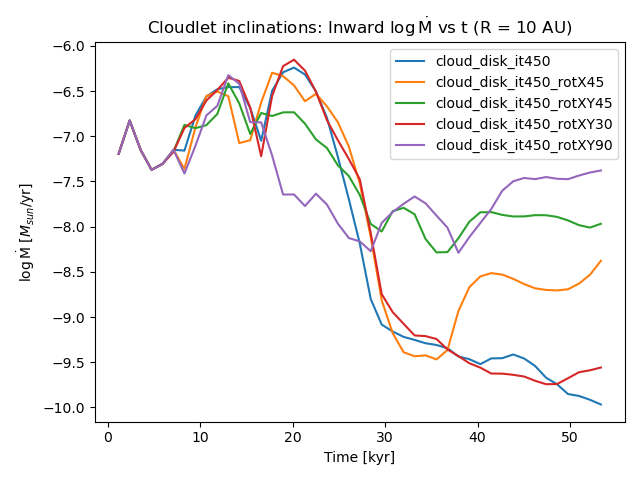
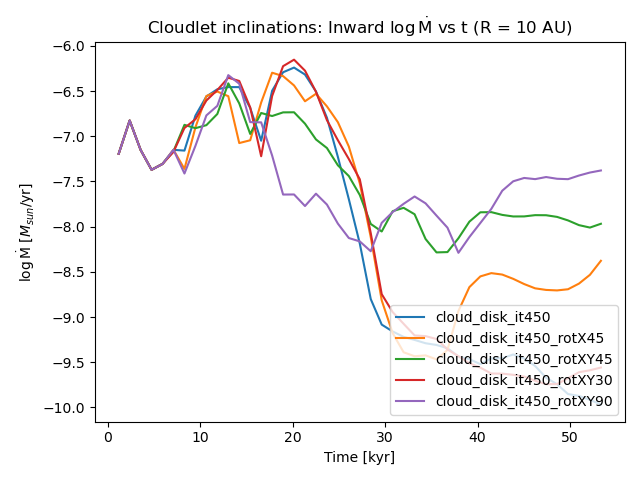
all plots for cloud_disk_it450_b01_rotXY45

diff --git a/mass_vs_r.py b/mass_vs_r.py
@@ -93,9 +93,9 @@ def check_accretion(rho, vr, theta, r, phi, Hc, max_height, Msun):
 def main():
 
 
-    # folder = Path("../cloud_nodisk_it450_rotXY90/")                        # Folder with the output files
-    folder = Path("../fargo3d/outputs/cloud_nodisk_it450_rotXY90")     # Folder with the output files (BinAC2)
-    fig_imgs = Path("cloud_nodisk_it450_rotXY90/imgs/")                  # Folder to save images
+    # folder = Path("../cloud_disk_it450_b01_rotXY45/")                        # Folder with the output files
+    folder = Path("../fargo3d/outputs/cloud_disk_it450_b01_rotXY45")     # Folder with the output files (BinAC2)
+    fig_imgs = Path("cloud_disk_it450_b01_rotXY45/imgs/")                  # Folder to save images
     it = 450                                                             # FARGO snapshot of interest
     sim_name = str(fig_imgs).split('/')[0]                               # Simulation name (for plot labels)
     sim_params = load_par_file(f"{sim_name}/{sim_name}.par")             # Loading simulation parameters from the .par file
@@ -169,20 +169,20 @@ def main():
     ax.set_xlabel(r"Time [kyr]")
     ax.set_ylabel(r"$\mathrm{\log\dot{M}}$ [$M_{sun}$/yr]")
     ax.set_title(fr"{sim_name}: $\mathrm{{\log\dot{{M}}}}$ vs t (R = 10 AU)")
-    plt.legend()
+    plt.legend(loc="lower right")
     plt.savefig(f'{fig_imgs}/logMdot_vs_t_it{it}.png')
     plt.show()
 
-    fig, ax = plt.subplots()
-    # plt.plot(allit_years, np.abs(dotM_tot_allit), label="Total flux")
-    plt.plot(allit_years, dotM_in_allit, label="Inward flux")
-    plt.plot(allit_years, dotM_out_allit, label="Outward flux")
-    ax.set_xlabel(r"Time [kyr]")
-    ax.set_ylabel(r"$\mathrm{\dot{M}}$ [$M_{sun}$/yr]")
-    ax.set_title(fr"{sim_name}: $\mathrm{{\dot{{M}}}}$ vs t (R = 10 AU)")
-    plt.legend()
-    plt.savefig(f'{fig_imgs}/Mdot_vs_t_it{it}.png')
-    plt.show()
+    # fig, ax = plt.subplots()
+    # # plt.plot(allit_years, np.abs(dotM_tot_allit), label="Total flux")
+    # plt.plot(allit_years, dotM_in_allit, label="Inward flux")
+    # plt.plot(allit_years, dotM_out_allit, label="Outward flux")
+    # ax.set_xlabel(r"Time [kyr]")
+    # ax.set_ylabel(r"$\mathrm{\dot{M}}$ [$M_{sun}$/yr]")
+    # ax.set_title(fr"{sim_name}: $\mathrm{{\dot{{M}}}}$ vs t (R = 10 AU)")
+    # plt.legend()
+    # plt.savefig(f'{fig_imgs}/Mdot_vs_t_it{it}.png')
+    # plt.show()
 
 
     ############################# Mass in each spherical shell ########################################
@@ -496,21 +496,21 @@ def main():
     ax.set_ylabel(r"$\mathrm{\log\dot{M}}$ [$M_{sun}$/yr]")
     ax.set_title(fr"Cloudlet inclinations (no disk): Inward $\mathrm{{\log\dot{{M}}}}$ vs t (R = 10 AU)")
     fig.tight_layout()
-    ax.legend(loc="upper right")   # loc='upper left', 
+    ax.legend(loc="lower right")   # loc='upper left', 
     plt.savefig('logMdot_vs_t_all_incs_nodisk.png')
     plt.show()
 
-    fig, ax = plt.subplots()
-    for key, value in Mdot_in_allincs_nodisk.items():
-        ax.plot(allit_years, value, label=inc_nodisk_labels[key])
-        # ax.plot(allit_years, dotM_out_allit, label="Outward flux")
-    ax.set_xlabel(r"Time [kyr]")
-    ax.set_ylabel(r"$\mathrm{\dot{M}}$ [$M_{sun}$/yr]")
-    ax.set_title(fr"Cloudlet inclinations (no disk): Inward $\mathrm{{\dot{{M}}}}$ vs t (R = 10 AU)")
-    fig.tight_layout()
-    ax.legend(loc="upper right")   # loc='upper left', 
-    plt.savefig('Mdot_vs_t_all_incs_nodisk.png')
-    plt.show()
+    # fig, ax = plt.subplots()
+    # for key, value in Mdot_in_allincs_nodisk.items():
+    #     ax.plot(allit_years, value, label=inc_nodisk_labels[key])
+    #     # ax.plot(allit_years, dotM_out_allit, label="Outward flux")
+    # ax.set_xlabel(r"Time [kyr]")
+    # ax.set_ylabel(r"$\mathrm{\dot{M}}$ [$M_{sun}$/yr]")
+    # ax.set_title(fr"Cloudlet inclinations (no disk): Inward $\mathrm{{\dot{{M}}}}$ vs t (R = 10 AU)")
+    # fig.tight_layout()
+    # ax.legend(loc="upper right")   # loc='upper left', 
+    # plt.savefig('Mdot_vs_t_all_incs_nodisk.png')
+    # plt.show()
         
 
    
@@ -623,21 +623,21 @@ def main():
     ax.set_ylabel(r"$\mathrm{\log\dot{M}}$ [$M_{sun}$/yr]")
     ax.set_title(fr"Cloudlet impact parameters: Inward $\mathrm{{\log\dot{{M}}}}$ vs t (R = 10 AU)")
     fig.tight_layout()
-    ax.legend(loc="upper right")   # loc='upper left', 
+    ax.legend(loc="lower right")   # loc='upper left', 
     plt.savefig('logMdot_vs_t_all_b.png')
     plt.show()
 
-    fig, ax = plt.subplots()
-    for key, value in Mdot_in_allb.items():
-        ax.plot(allit_years, value, label=b_labels[key])
-        # ax.plot(allit_years, dotM_out_allit, label="Outward flux")
-    ax.set_xlabel(r"Time [kyr]")
-    ax.set_ylabel(r"$\mathrm{\dot{M}}$ [$M_{sun}$/yr]")
-    ax.set_title(fr"Cloudlet impact parameters: Inward $\mathrm{{\dot{{M}}}}$ vs t (R = 10 AU)")
-    fig.tight_layout()
-    ax.legend(loc="upper right")   # loc='upper left', 
-    plt.savefig('Mdot_vs_t_all_b.png')
-    plt.show()
+    # fig, ax = plt.subplots()
+    # for key, value in Mdot_in_allb.items():
+    #     ax.plot(allit_years, value, label=b_labels[key])
+    #     # ax.plot(allit_years, dotM_out_allit, label="Outward flux")
+    # ax.set_xlabel(r"Time [kyr]")
+    # ax.set_ylabel(r"$\mathrm{\dot{M}}$ [$M_{sun}$/yr]")
+    # ax.set_title(fr"Cloudlet impact parameters: Inward $\mathrm{{\dot{{M}}}}$ vs t (R = 10 AU)")
+    # fig.tight_layout()
+    # ax.legend(loc="upper right")   # loc='upper left', 
+    # plt.savefig('Mdot_vs_t_all_b.png')
+    # plt.show()
 
 
     ####################### Compare radial mass dist., Mdot for different inclinations ########################
@@ -748,21 +748,21 @@ def main():
     ax.set_ylabel(r"$\mathrm{\log\dot{M}}$ [$M_{sun}$/yr]")
     ax.set_title(fr"Cloudlet inclinations: Inward $\mathrm{{\log\dot{{M}}}}$ vs t (R = 10 AU)")
     fig.tight_layout()
-    ax.legend(loc="upper right")   # loc='upper left', 
+    ax.legend(loc="lower right")   # loc='upper left', 
     plt.savefig('logMdot_vs_t_all_incs.png')
     plt.show()
 
-    fig, ax = plt.subplots()
-    for key, value in Mdot_in_allincs.items():
-        ax.plot(allit_years, value, label=key)
-        # ax.plot(allit_years, dotM_out_allit, label="Outward flux")
-    ax.set_xlabel(r"Time [kyr]")
-    ax.set_ylabel(r"$\mathrm{\dot{M}}$ [$M_{sun}$/yr]")
-    ax.set_title(fr"Cloudlet inclinations: Inward $\mathrm{{\dot{{M}}}}$ vs t (R = 10 AU)")
-    fig.tight_layout()
-    ax.legend(loc="upper right")   # loc='upper left', 
-    plt.savefig('Mdot_vs_t_all_incs.png')
-    plt.show()
+    # fig, ax = plt.subplots()
+    # for key, value in Mdot_in_allincs.items():
+    #     ax.plot(allit_years, value, label=key)
+    #     # ax.plot(allit_years, dotM_out_allit, label="Outward flux")
+    # ax.set_xlabel(r"Time [kyr]")
+    # ax.set_ylabel(r"$\mathrm{\dot{M}}$ [$M_{sun}$/yr]")
+    # ax.set_title(fr"Cloudlet inclinations: Inward $\mathrm{{\dot{{M}}}}$ vs t (R = 10 AU)")
+    # fig.tight_layout()
+    # ax.legend(loc="upper right")   # loc='upper left', 
+    # plt.savefig('Mdot_vs_t_all_incs.png')
+    # plt.show()
 
 
     ####################### Compare radial mass distributions for different cloudlet masses ########################
@@ -866,21 +866,21 @@ def main():
     ax.set_ylabel(r"$\mathrm{\log\dot{M}}$ [$M_{sun}$/yr]")
     ax.set_title(fr"Cloudlet masses: Inward $\mathrm{{\log\dot{{M}}}}$ vs t (R = 10 AU)")
     fig.tight_layout()
-    ax.legend(loc="upper right")   # loc='upper left', 
+    ax.legend(loc="lower right")   # loc='upper left', 
     plt.savefig('logMdot_vs_t_all_cmass.png')
     plt.show()
 
-    fig, ax = plt.subplots()
-    for key, value in Mdot_in_allcmass.items():
-        ax.plot(allit_years, value, label=cmass_labels[key])
-        # ax.plot(allit_years, dotM_out_allit, label="Outward flux")
-    ax.set_xlabel(r"Time [kyr]")
-    ax.set_ylabel(r"$\mathrm{\dot{M}}$ [$M_{sun}$/yr]")
-    ax.set_title(fr"Cloudlet masses: Inward $\mathrm{{\dot{{M}}}}$ vs t (R = 10 AU)")
-    fig.tight_layout()
-    ax.legend(loc="upper right")   # loc='upper left', 
-    plt.savefig('Mdot_vs_t_all_cmass.png')
-    plt.show()
+    # fig, ax = plt.subplots()
+    # for key, value in Mdot_in_allcmass.items():
+    #     ax.plot(allit_years, value, label=cmass_labels[key])
+    #     # ax.plot(allit_years, dotM_out_allit, label="Outward flux")
+    # ax.set_xlabel(r"Time [kyr]")
+    # ax.set_ylabel(r"$\mathrm{\dot{M}}$ [$M_{sun}$/yr]")
+    # ax.set_title(fr"Cloudlet masses: Inward $\mathrm{{\dot{{M}}}}$ vs t (R = 10 AU)")
+    # fig.tight_layout()
+    # ax.legend(loc="upper right")   # loc='upper left', 
+    # plt.savefig('Mdot_vs_t_all_cmass.png')
+    # plt.show()
 
 
 if __name__ == "__main__":

diff --git a/time_evol.py b/time_evol.py
@@ -24,12 +24,12 @@ stoky = 3.156e7 * 1e3     # 1 kyr in sec
 def main():
 
 
-    # folder = Path("../iras04125_it450_cmass01_b01/")                        # Folder with the FARGO output files
-    folder = Path("../fargo3d/outputs/iras04125_it450_cmass01_b01/")          # Folder with the FARGO output files (Binac2)
-    fig_imgs = Path("iras04125_it450_cmass01_b01/imgs/")                      # Folder to save images    
+    # folder = Path("../cloud_disk_it450_b01_rotXY45/")                        # Folder with the FARGO output files
+    folder = Path("../fargo3d/outputs/cloud_disk_it450_b01_rotXY45/")          # Folder with the FARGO output files (Binac2)
+    fig_imgs = Path("cloud_disk_it450_b01_rotXY45/imgs/")                      # Folder to save images    
     iter_total = 450                                     # FARGO snapshot
 
-    first_it = 200
+    first_it = 1
     iter_check = np.arange(first_it, iter_total+1, 50)                       # Some iterations to plot
     sim_name = str(fig_imgs).split('/')[0]                                     # Simulation name (for plot labels)
     dt_years = calc_simtime(np.asarray(range(first_it, iter_total+1)))       # Convert iterations to kyrs
@@ -226,6 +226,7 @@ def main():
 
     
     # Plot time evolution of warp inclination in 2D for some specific iters in iter_check
+    fig = plt.figure(figsize=(8, 6))
     cols = cm.get_cmap('viridis', len(iter_check))
     for i in range(len(iter_check)):
         plt.plot(rc/au, inc_itercheck[i], color=cols(i), label=f"{int(dtkyrs_check[i])} kyr")
@@ -260,6 +261,7 @@ def main():
 
 
     # Plot time evolution of warp precession in 2D for some specific iters in iter_check
+    fig = plt.figure(figsize=(8, 6))
     for i in range(len(iter_check)):
         plt.plot(rc/au, prec_itercheck[i], color=cols(i), label=f"{int(dtkyrs_check[i])} kyr")
     plt.xlabel("R [AU]")

diff --git a/analysis.py b/analysis.py
@@ -504,9 +504,9 @@ def calc_total_L(Lx_avg, Ly_avg, Lz_avg):
 
 def main():
 
-    # folder = Path("../iras04125_it450_cmass01_b01/")                        # Folder with the output files
-    folder = Path("../fargo3d/outputs/iras04125_it450_cmass01_b01")         # Folder with the output files (BinAC2)
-    fig_imgs = Path("iras04125_it450_cmass01_b01/imgs/")                    # Folder to save images
+    # folder = Path("../cloud_disk_it450_b01_rotXY45/")                        # Folder with the output files
+    folder = Path("../fargo3d/outputs/cloud_disk_it450_b01_rotXY45")         # Folder with the output files (BinAC2)
+    fig_imgs = Path("cloud_disk_it450_b01_rotXY45/imgs/")                    # Folder to save images
     it = 450                                                       # FARGO snapshot of interest
     sim_name = str(fig_imgs).split('/')[0]                         # Simulation name (for plot labels)
     sim_params = load_par_file(f"{sim_name}/{sim_name}.par")       # Loading simulation parameters from the .par file
